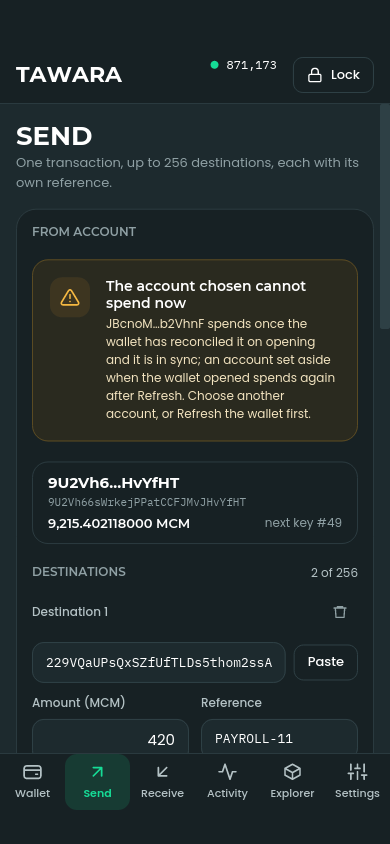
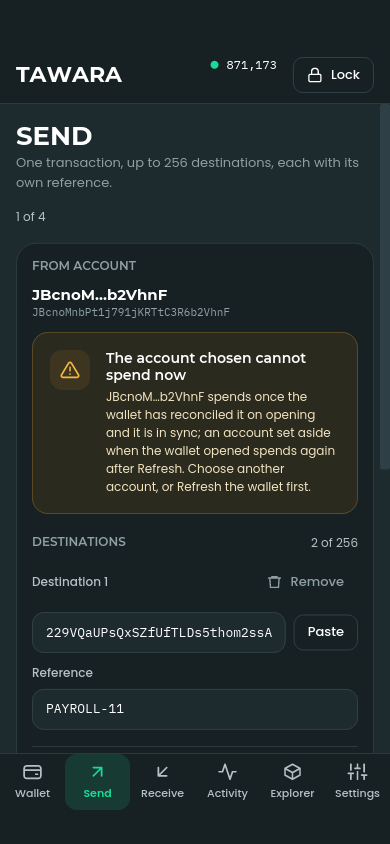
Send on phones: the screenshots of the four pages (D40, step 3)
The phone's Send pages have images of their own: phone-w4-send-to (1 of
4), phone-w4-send-amount (2 of 4) and phone-w5-sign (4 of 4). Each has an
end image where its page scrolls, as the long pages do, and page 1 has one
with the keyboard up on its first destination (phone-w4-send-to-keyboard).
The review keeps phone-w5-review and phone-w5-review-end, and the sent page
keeps phone-w6-sent with its end and its settled variant.

A phone's Send starts on page 1, so the desktop's W4 sample is no longer
drawn as a phone image: phone-w4-send, phone-w4-send-end and
phone-w4-send-keyboard are deleted. phone-w4-send-cannot-spend,
phone-w5-review and phone-w5-review-end change with the pages' layout. The
desktop's images, phone-w6-sent, phone-w6-sent-end, phone-w6-sent-settled,
phone-w8-resign and phone-w9-submit are unchanged.

The example draws each Send page from the desktop's W4 sample with the
stage set to that page (phone_named). The new images are yielded by
phones(), so --fit lays them out with the rest. PHONE_ENDS lists the ends
of To, Amount and Sign.

Checked in the pinned Linux container (docs/DECISIONS.md D32 item 10 (c)):
--check --except phone- before any write, every desktop image same;
--check --only phone- against the committed images, with the three changed
images differing, the seven new ones missing and every other phone image
same; --fit, with no OVERFLOW; the write of the phone images; then CI's own
[…]

diff --git a/crates/app/examples/screenshots.rs b/crates/app/examples/screenshots.rs
@@ -22,9 +22,12 @@
 //! phone's welcome screen, S0, has no desktop image: it is drawn only as
 //! `phone-s0-welcome.png` (docs/DECISIONS.md D37), and W1 with an account's
 //! row opened has none either: it is drawn only as
-//! `phone-w1-wallet-account-open.png` (D39), so the phone's images are 70 in
-//! all. Every piece of text names a bundled face (`tawara_app::fonts`), so the
-//! pixels do not depend on the fonts a machine has installed.
+//! `phone-w1-wallet-account-open.png` (D39). The Send pages 1, 2 and 4 have
+//! none either: they are drawn only as `phone-w4-send-to.png`,
+//! `phone-w4-send-amount.png` and `phone-w5-sign.png` (D40), so the phone's
+//! images are 74 in all. Every piece of text names a bundled face
+//! (`tawara_app::fonts`), so the pixels do not depend on the fonts a machine
+//! has installed.
 //!
 //! Flags:
 //!
@@ -62,6 +65,7 @@
 //!   `----- BEGIN <name>.png -----` and `----- END <name>.png -----`, so that
 //!   the log of CI carries what it would commit (docs/DECISIONS.md D13).
 
+use std::collections::BTreeMap;
 use std::path::{Path, PathBuf};
 use std::process::ExitCode;
 use std::time::Duration;
@@ -799,14 +803,18 @@ const SHORT_PHONE: u32 = 640;
 
 /// The long pages drawn a second time scrolled to their end. Receive is one,
 /// so that its QR code, which is below the fold at the top, is in an image the
-/// owner can approve (docs/DECISIONS.md D41). S4 is not among them: its
+/// owner can approve (docs/DECISIONS.md D41). Five of the Send pages are among
+/// them, To, Amount, Review, Sign and Sent, so that the foot of each, with its
+/// button, is in an image (docs/DECISIONS.md D40). S4 is not among them: its
 /// frame fits 390 by 844 without scrolling (docs/DECISIONS.md D44), so its end
 /// is the image itself.
-const PHONE_ENDS: [&str; 11] = [
+const PHONE_ENDS: [&str; 13] = [
     "w1-wallet",
     "w2-receive",
-    "w4-send",
+    "w4-send-to",
+    "w4-send-amount",
     "w5-review",
+    "w5-sign",
     "w6-sent",
     "w10-activity",
     "w11-settings",
@@ -908,16 +916,40 @@ fn sample_named(name: &str) -> Model {
         .unwrap_or_else(|| panic!("no sample named {name}"))
 }
 
+/// The state the phone's image named `name` is drawn from, without its `phone-`
+/// prefix. That is one of the phone's Send pages, or else the sample of that
+/// name. A Send page is the desktop's W4 sample, with its account and form, and
+/// its Send tab on that page (docs/DECISIONS.md D40).
+fn phone_named(name: &str) -> Model {
+    let stage = match name {
+        "w4-send-to" => SendStage::To(BTreeMap::new()),
+        "w4-send-amount" => SendStage::Amount,
+        "w5-sign" => SendStage::Sign(Box::new(sample::plan_view())),
+        _ => return sample_named(name),
+    };
+    let mut model = sample_named("w4-send");
+    if let Screen::Wallet(WalletPage {
+        page: Page::Send(send),
+        ..
+    }) = &mut model.screen
+    {
+        send.stage = stage;
+    }
+    model
+}
+
 /// The phone images at `width` logical pixels across: every desktop sample
 /// but the narrow ones, the phone's welcome screen and W1 with an account's
-/// row open, which the desktop does not have, the long pages scrolled to their
-/// end, and two drawn with the keyboard up (docs/DECISIONS.md D32 item 10 (c),
-/// D37, D39).
+/// row open, which the desktop does not have, the phone's Send pages 1, 2
+/// and 4, the long pages scrolled to their end, and two drawn with the
+/// keyboard up (docs/DECISIONS.md D32 item 10 (c), D37, D39, D40).
 fn phones(width: u32) -> Vec<Image> {
     let size = (width, PHONE.1);
+    // A phone's Send starts on page 1, so the desktop's W4 sample is not drawn
+    // as an image of its own: its page 1 is "phone-w4-send-to".
     let mut out: Vec<Image> = samples()
         .into_iter()
-        .filter(|(name, _, _)| !name.starts_with("narrow-"))
+        .filter(|(name, _, _)| !name.starts_with("narrow-") && *name != "w4-send")
         .map(|(name, _, model)| Image {
             name: format!("phone-{name}"),
             size,
@@ -953,11 +985,24 @@ fn phones(width: u32) -> Vec<Image> {
         focus: None,
         scroll: Some(ACCOUNTS_SCROLL),
     });
+    // The phone's Send pages 1, 2 and 4 (docs/DECISIONS.md D40). The desktop's
+    // samples draw W4, the review (page 3, "phone-w5-review") and W6, not
+    // these.
+    for name in ["w4-send-to", "w4-send-amount", "w5-sign"] {
+        out.push(Image {
+            name: format!("phone-{name}"),
+            size,
+            model: phone(phone_named(name), 0.0),
+            to_end: false,
+            focus: None,
+            scroll: None,
+        });
+    }
     for name in PHONE_ENDS {
         out.push(Image {
             name: format!("phone-{name}-end"),
             size,
-            model: phone(sample_named(name), 0.0),
+            model: phone(phone_named(name), 0.0),
             to_end: true,
             focus: None,
             scroll: None,
@@ -980,15 +1025,15 @@ fn phones(width: u32) -> Vec<Image> {
         });
     }
     // The field the keyboard came up for: the recovery phrase, and the first
-    // destination.
+    // destination on Send's page 1.
     for (name, field) in [
         ("s6-restore", screens::phrase_id()),
-        ("w4-send", screens::destination_id(0)),
+        ("w4-send-to", screens::destination_id(0)),
     ] {
         out.push(Image {
             name: format!("phone-{name}-keyboard"),
             size,
-            model: phone(sample_named(name), KEYBOARD),
+            model: phone(phone_named(name), KEYBOARD),
             to_end: false,
             focus: Some(field),
             scroll: None,
